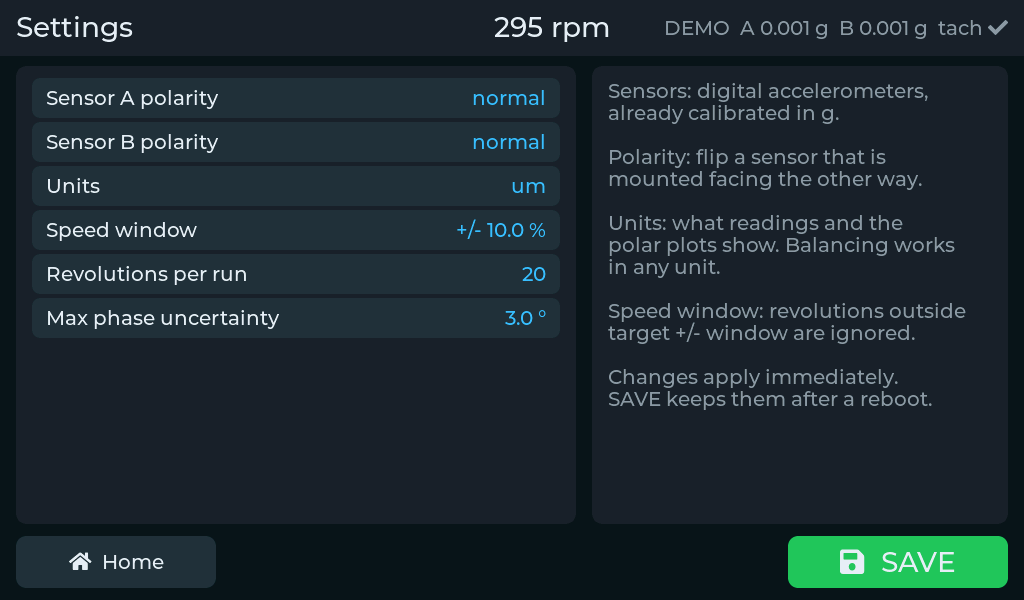
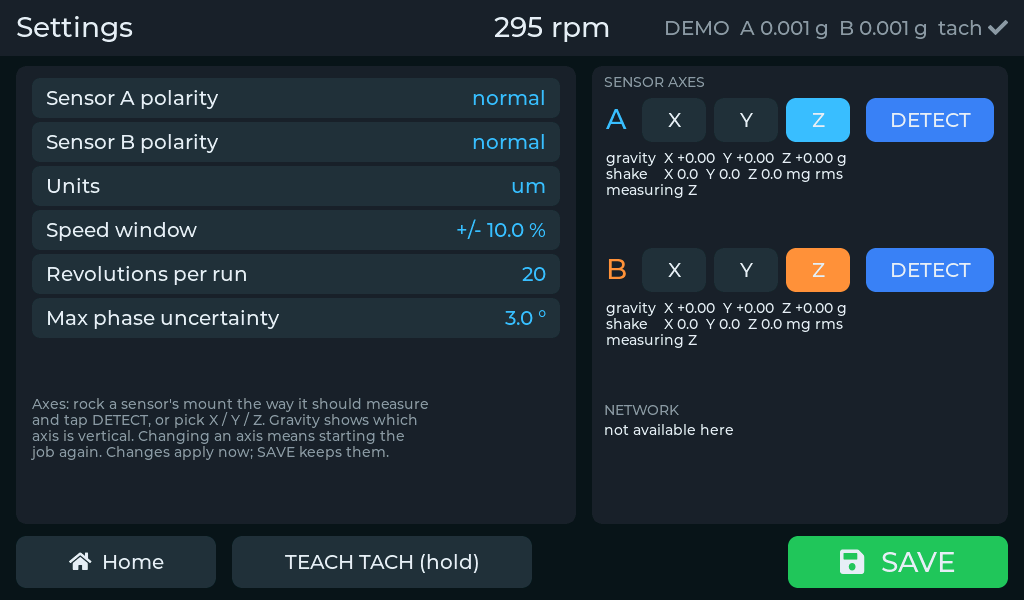
Settings: pick or auto-detect each sensor's axis; network status
- Each sensor's measured axis (X/Y/Z) can be changed on the Settings
  screen, starts from the YAML and is saved with SAVE (saved-state version
  bumped, so older saved settings are reset once).
- Live per-axis gravity (1 s mean) and shake (AC rms) for both sensors, so
  the vertical axis and the responding one are visible.
- DETECT: rock the sensor's mount the way it should measure for 3 s; the
  axis with clearly the most AC motion (1.5x the next) is chosen, otherwise
  it says so and leaves the choice by hand.
- Network panel: Wi-Fi SSID and signal, IP address, Home Assistant
  connected or not.

diff --git a/components/balancer/ui.cpp b/components/balancer/ui.cpp
@@ -834,16 +834,48 @@ void BalancerUi::build_settings_() {
        });
   number_row_(rows, colm, "Max phase uncertainty", "°", 1, [&st]() -> double & { return st.max_phase_unc_deg; }, 0.2, 20, apply);
 
+  lv_obj_t *help = text(left,
+                        "Axes: rock a sensor's mount the way it should measure\n"
+                        "and tap DETECT, or pick X / Y / Z. Gravity shows which\n"
+                        "axis is vertical. Changing an axis means starting the\n"
+                        "job again. Changes apply now; SAVE keeps them.",
+                        F14, kMuted, 16, 330);
+  (void) help;
+
+  // Right: which axis each sensor measures, and the network.
   lv_obj_t *right = box(s, 592, 66, 416, 458);
-  lv_obj_t *t = text(right,
-                     "Sensors: digital accelerometers,\nalready calibrated in g.\n\n"
-                     "Polarity: flip a sensor that is\nmounted facing the other way.\n\n"
-                     "Units: what readings and the\npolar plots show. Balancing works\nin any unit.\n\n"
-                     "Speed window: revolutions outside\ntarget +/- window are ignored.\n\n"
-                     "TEACH TACH: hold it like the teach\nkey on the LX-101 tach sensor.\n\n"
-                     "Changes apply immediately.\nSAVE keeps them after a reboot.",
-                     F20, kMuted, 16, 14);
-  (void) t;
+  text(right, "SENSOR AXES", F14, kMuted, 12, 8);
+  const uint32_t chc[2] = {kChA, kChB};
+  for (int c = 0; c < 2; c++) {
+    const int y0 = 32 + c * 150;
+    text(right, c == 0 ? "A" : "B", F28, chc[c], 14, y0 + 6);
+    for (int k = 0; k < 3; k++) {
+      lv_obj_t *ab = button_(
+          right, k == 0 ? "X" : (k == 1 ? "Y" : "Z"), F20,
+          [this, c, k]() {
+            UiSettings &st = model_->settings();
+            if (st.axis[c] == k) return;
+            st.axis[c] = k;
+            model_->apply_settings(false);
+            refresh_rows_(settings_rows_);
+            toast_(fmt("Sensor %c now reads %c. Runs measured before this no longer match: start the job "
+                       "again. SAVE keeps it.",
+                       'A' + c, "XYZ"[k]));
+          },
+          col(kPanel2));
+      lv_obj_set_pos(ab, 50 + k * 72, y0);
+      lv_obj_set_size(ab, 64, 44);
+      s_axis_btn_[c][k] = ab;
+    }
+    s_detect_btn_[c] = button_(right, "DETECT", F20, [this, c]() { start_detect_(c); }, col(kAccent));
+    lv_obj_set_pos(s_detect_btn_[c], 274, y0);
+    lv_obj_set_size(s_detect_btn_[c], 128, 44);
+    s_axis_info_[c] = text(right, "", F14, kText, 14, y0 + 52);
+  }
+  text(right, "NETWORK", F14, kMuted, 12, 336);
+  s_net_ = text(right, "", F14, kText, 12, 356);
+  lv_obj_set_width(s_net_, 392);
+  lv_label_set_long_mode(s_net_, LV_LABEL_LONG_MODE_WRAP);
 
   lv_obj_t *b = button_(s, LV_SYMBOL_HOME "  Home", F20, [this]() { show(HOME); }, col(kPanel2));
   lv_obj_set_pos(b, 16, 536);
@@ -875,6 +907,72 @@ void BalancerUi::build_settings_() {
   }, col(kGreen));
   lv_obj_set_pos(b, 788, 536);
   lv_obj_set_size(b, 220, 52);
+}
+
+// Axis auto-detect: the person rocks or shakes the assembly the way this
+// sensor should measure, and the axis with by far the most AC motion over
+// the next few seconds wins. Gravity (the mean) is ignored, so the vertical
+// axis only wins if the motion really is vertical.
+static constexpr uint32_t kDetectMs = 3000;
+
+void BalancerUi::start_detect_(int ch) {
+  if (model_->live().raw_n[ch] == 0 && !model_->simulate()) {
+    toast_(fmt("Sensor %c is not giving readings.", 'A' + ch));
+    return;
+  }
+  det_ch_ = ch;
+  det_end_ms_ = lv_tick_get() + kDetectMs;
+  for (float &p : det_peak_) p = 0;
+  toast_(fmt("Rock or shake sensor %c's mount the way it should measure, for 3 seconds...", 'A' + ch));
+}
+
+void BalancerUi::update_settings_() {
+  const LiveData &lv = model_->live();
+  const UiSettings &st = model_->settings();
+  static const char kAx[] = "XYZ";
+  for (int c = 0; c < 2; c++) {
+    for (int k = 0; k < 3; k++)
+      lv_obj_set_style_bg_color(s_axis_btn_[c][k], col(st.axis[c] == k ? (c == 0 ? kChA : kChB) : kPanel2), 0);
+    const float *m = lv.axis_mean[c], *r = lv.axis_rms[c];
+    std::string state = fmt("measuring %c", kAx[st.axis[c]]);
+    if (det_ch_ == c) state = "DETECTING: keep rocking...";
+    lv_label_set_text(s_axis_info_[c], fmt("gravity  X %+.2f  Y %+.2f  Z %+.2f g\n"
+                                           "shake    X %.1f  Y %.1f  Z %.1f mg rms\n%s",
+                                           m[0], m[1], m[2], r[0] * 1000, r[1] * 1000, r[2] * 1000, state.c_str())
+                                           .c_str());
+  }
+  if (det_ch_ >= 0) {
+    const int c = det_ch_;
+    for (int k = 0; k < 3; k++) det_peak_[k] = std::max(det_peak_[k], lv.axis_rms[c][k]);
+    if (static_cast<int32_t>(lv_tick_get() - det_end_ms_) >= 0) {
+      det_ch_ = -1;
+      int best = 0;
+      for (int k = 1; k < 3; k++)
+        if (det_peak_[k] > det_peak_[best]) best = k;
+      float second = 0;
+      for (int k = 0; k < 3; k++)
+        if (k != best) second = std::max(second, det_peak_[k]);
+      if (det_peak_[best] < 0.005f) {
+        toast_(fmt("Sensor %c barely moved (%.1f mg). Rock it harder and tap DETECT again.", 'A' + c,
+                   det_peak_[best] * 1000));
+      } else if (det_peak_[best] < 1.5f * second) {
+        toast_(fmt("No clear axis for sensor %c (X %.0f, Y %.0f, Z %.0f mg). Rock it in one direction only, or "
+                   "pick X/Y/Z by hand.",
+                   'A' + c, det_peak_[0] * 1000, det_peak_[1] * 1000, det_peak_[2] * 1000));
+      } else {
+        UiSettings &sm = model_->settings();
+        const bool changed = sm.axis[c] != best;
+        sm.axis[c] = best;
+        model_->apply_settings(false);
+        toast_(fmt("Sensor %c: %c axis (%.0f mg, next %.0f mg).%s", 'A' + c, kAx[best], det_peak_[best] * 1000,
+                   second * 1000, changed ? " Start the job again; SAVE keeps it." : " Unchanged."));
+      }
+    }
+  }
+  if (s_net_ != nullptr) {
+    const std::string net = model_->network_status();
+    lv_label_set_text(s_net_, net.empty() ? "not available here" : net.c_str());
+  }
 }
 
 // ============================================================================
@@ -926,6 +1024,9 @@ void BalancerUi::update() {
       break;
     case LIVE:
       update_live_();
+      break;
+    case SETTINGS:
+      update_settings_();
       break;
     default:
       break;

diff --git a/components/balancer/balancer.cpp b/components/balancer/balancer.cpp
@@ -5,6 +5,12 @@
 #include "esphome/core/hal.h"
 #include "esphome/core/helpers.h"
 #include "esphome/core/log.h"
+#ifdef USE_WIFI
+#include "esphome/components/wifi/wifi_component.h"
+#endif
+#ifdef USE_API
+#include "esphome/components/api/api_server.h"
+#endif
 
 #ifdef USE_ESP32
 #include "driver/gpio.h"
@@ -36,6 +42,7 @@ void BalancerComponent::set_mpu_sensor(int ch, int address, int int_pin, int axi
   mpu_cfg_.address[ch] = static_cast<uint8_t>(address);
   mpu_cfg_.pin_int[ch] = int_pin;
   mpu_cfg_.axis[ch] = axis;
+  settings_.axis[ch] = axis;
   settings_.invert[ch] = invert;
   if (mpu_cfg_.sensors < ch + 1) mpu_cfg_.sensors = ch + 1;
 }
@@ -79,7 +86,10 @@ void BalancerComponent::setup() {
     if (saved_.has_machine) load_machine(saved_.machine, saved_.machine_rpm, saved_.machine_cfg);
     ESP_LOGI(TAG, "restored settings%s", saved_.has_machine ? " and saved machine" : "");
   }
-  for (int c = 0; c < 2; c++) mpu_cfg_.invert[c] = settings_.invert[c];
+  for (int c = 0; c < 2; c++) {
+    mpu_cfg_.invert[c] = settings_.invert[c];
+    if (settings_.axis[c] >= 0 && settings_.axis[c] <= 2) mpu_cfg_.axis[c] = settings_.axis[c];
+  }
   configure_measurement_();
 
 #ifdef USE_ESP32
@@ -98,8 +108,12 @@ void BalancerComponent::setup() {
 
 void BalancerComponent::on_settings_changed() {
 #ifdef USE_ESP32
-  for (int c = 0; c < 2; c++)
-    if (mpu_) mpu_->set_invert(c, settings_.invert[c]);
+  for (int c = 0; c < 2; c++) {
+    if (!mpu_) continue;
+    mpu_->set_invert(c, settings_.invert[c]);
+    mpu_->set_axis(c, settings_.axis[c]);
+    mpu_cfg_.axis[c] = settings_.axis[c];  // for the config dump
+  }
 #endif
 }
 
@@ -139,10 +153,43 @@ void BalancerComponent::update_acq_status_() {
     live_.rms_g[c] = st.rms_g[c].load();
     live_.peak_frac[c] = st.peak_frac[c].load();
     live_.read_errors[c] = st.read_errors[c].load();
+    for (int k = 0; k < 3; k++) {
+      live_.axis_mean[c][k] = st.axis_mean[c][k].load();
+      live_.axis_rms[c][k] = st.axis_rms[c][k].load();
+    }
     live_.missed[c] = st.missed[c].load();
     live_.raw_n[c] = mpu_->copy_raw(c, live_.raw[c], bal::LiveData::kRawPts);
   }
 #endif
+}
+
+std::string BalancerComponent::network_status() const {
+  std::string out;
+#ifdef USE_WIFI
+  auto *w = wifi::global_wifi_component;
+  if (w != nullptr && w->is_connected()) {
+    char ssid[wifi::SSID_BUFFER_SIZE];
+    w->wifi_ssid_to(ssid);
+    out += str_sprintf("Wi-Fi: connected to %s, %d dBm\n", ssid, (int) w->wifi_rssi());
+    std::string ips;
+    for (auto &ip : w->get_ip_addresses()) {
+      if (!ip.is_set() || !ip.is_ip4()) continue;
+      char buf[network::IP_ADDRESS_BUFFER_SIZE];
+      if (!ips.empty()) ips += ", ";
+      ips += ip.str_to(buf);
+    }
+    out += "IP: " + (ips.empty() ? std::string("none yet") : ips) + "\n";
+  } else {
+    out += "Wi-Fi: NOT connected\nIP: none\n";
+  }
+#else
+  out += "Wi-Fi: not in this firmware\n";
+#endif
+#ifdef USE_API
+  const bool ha = api::global_api_server != nullptr && api::global_api_server->is_connected();
+  out += ha ? "Home Assistant: connected" : "Home Assistant: not connected";
+#endif
+  return out;
 }
 
 bool BalancerComponent::pc_log() const {

diff --git a/components/balancer/acq_mpu.cpp b/components/balancer/acq_mpu.cpp
@@ -100,6 +100,11 @@ void MpuAcquisition::set_invert(int ch, bool invert) {
   invert_[ch].store(invert);
 }
 
+void MpuAcquisition::set_axis(int ch, int axis) {
+  if (ch < 0 || ch > 1 || axis < 0 || axis > 2) return;
+  axis_[ch].store(axis);
+}
+
 bool MpuAcquisition::new_bus_(int b, int sda, int scl, bool low_power) {
   i2c_master_bus_config_t bcfg = {};
   bcfg.sda_io_num = static_cast<gpio_num_t>(sda);
@@ -273,6 +278,7 @@ bool MpuAcquisition::start(const MpuConfig &cfg) {
     status_.rms_g[c].store(0);
     status_.peak_frac[c].store(0);
     invert_[c].store(cfg_.invert[c]);
+    axis_[c].store(cfg_.axis[c]);
   }
   for (auto &e : edge_count_) e.store(0);
   g_per_count_ = static_cast<float>(cfg_.range_g) / 32768.0f;
@@ -421,7 +427,13 @@ void MpuAcquisition::task_() {
         int16_t xyz[3];
         for (int k = 0; k < 3; k++)
           xyz[k] = static_cast<int16_t>((static_cast<uint16_t>(b[2 * k]) << 8) | b[2 * k + 1]);
-        const int16_t raw = xyz[cfg_.axis[s]];
+        const int16_t raw = xyz[axis_[s].load(std::memory_order_relaxed)];
+        // Every axis, for the axis picker on the settings screen.
+        for (int k = 0; k < 3; k++) {
+          const double v = static_cast<double>(xyz[k]) * g_per_count_;
+          ax_sum_[s][k] += v;
+          ax_sq_[s][k] += v * v;
+        }
         float g = static_cast<float>(raw) * g_per_count_;
         if (invert_[s].load(std::memory_order_relaxed)) g = -g;
         // Recent readings for the LIVE screen's raw trace.
@@ -465,6 +477,12 @@ void MpuAcquisition::task_() {
       for (int c = 0; c < 2; c++) {
         if (c < cfg_.sensors) alive = alive && (now_ms - last_reading_ms[c] < 300);
         if (stat_n_[c] > 0) {
+          for (int k = 0; k < 3; k++) {
+            const double m = ax_sum_[c][k] / stat_n_[c];
+            const double v = ax_sq_[c][k] / stat_n_[c] - m * m;
+            status_.axis_mean[c][k].store(static_cast<float>(m));
+            status_.axis_rms[c][k].store(static_cast<float>(std::sqrt(v > 0 ? v : 0)));
+          }
           // AC part only: gravity and tilt sit on every reading.
           const double mean = sum_[c] / stat_n_[c];
           const double var = sq_sum_[c] / stat_n_[c] - mean * mean;
@@ -474,6 +492,7 @@ void MpuAcquisition::task_() {
         }
         status_.peak_frac[c].store(peak_[c]);
         sum_[c] = sq_sum_[c] = 0;
+        for (int k = 0; k < 3; k++) ax_sum_[c][k] = ax_sq_[c][k] = 0;
         peak_[c] = 0;
         stat_n_[c] = 0;
       }

diff --git a/components/balancer/acq_mpu.h b/components/balancer/acq_mpu.h
@@ -37,6 +37,10 @@ struct AcqStatus {
   std::atomic<uint32_t> last_tach_ms{0};
   std::atomic<float> measured_fs{0};
   std::atomic<float> rms_g[2];
+  // Every axis of each sensor over the last second, for the axis picker:
+  // mean (mostly gravity, so it shows which axis is vertical) and AC rms.
+  std::atomic<float> axis_mean[2][3] = {};
+  std::atomic<float> axis_rms[2][3] = {};
   std::atomic<float> peak_frac[2];  // largest |sample| / full scale over the last second
   std::atomic<uint32_t> read_errors[2] = {};  // I2C reads that failed, per sensor
   std::atomic<uint32_t> missed[2] = {};       // readings overwritten before they could be read, per sensor
@@ -76,6 +80,8 @@ class MpuAcquisition {
   const AcqStatus &status() const { return status_; }
   // Only the polarity can change at runtime: the sensor already reports g.
   void set_invert(int ch, bool invert);
+  // Which sensor axis (0 X, 1 Y, 2 Z) feeds the measurement; changeable at runtime.
+  void set_axis(int ch, int axis);
   const char *chip_name(int ch) const { return chip_[ch]; }
   double filter_delay_s(int ch) const { return delay_s_[ch]; }
 
@@ -128,6 +134,8 @@ class MpuAcquisition {
   double delay_s_[2] = {0, 0};
   uint32_t delay_ticks_[2] = {0, 0};
   std::atomic<bool> invert_[2];
+  std::atomic<int> axis_[2] = {};
+  double ax_sum_[2][3] = {}, ax_sq_[2][3] = {};
   // Running stats for the status page.
   double sum_[2] = {0, 0}, sq_sum_[2] = {0, 0};
   float peak_[2] = {0, 0};

diff --git a/components/balancer/ui_model.h b/components/balancer/ui_model.h
@@ -25,6 +25,10 @@ struct LiveData {
   bool acq_ok = false;         // acquisition running
   bool aligned = false;        // timebase locked
   unsigned resyncs = 0, overflows = 0, glitches = 0, tach_pulses = 0;
+  // Every axis of each sensor over the last second (g): mean, mostly gravity,
+  // and AC rms, the shaking. For the axis picker on the settings screen.
+  float axis_mean[kChannels][3] = {};
+  float axis_rms[kChannels][3] = {};
   unsigned read_errors[kChannels] = {0, 0};  // failed I2C reads, per sensor
   unsigned missed[kChannels] = {0, 0};       // readings skipped because the task fell behind
   // The latest raw readings of each sensor's measured axis (g, oldest first),
@@ -36,6 +40,7 @@ struct LiveData {
 
 struct UiSettings {
   bool invert[kChannels] = {false, false};
+  int axis[kChannels] = {2, 2};  // sensor axis measured: 0 X, 1 Y, 2 Z (starts from the YAML)
   Quantity quantity = Quantity::VELOCITY_MM_S;
   double window = 0.03;
   int target_revs = 30;
@@ -69,6 +74,9 @@ class UiModel {
   virtual void save_machine() = 0;
   virtual bool start_trim() = 0;
   virtual std::string machine_summary() const = 0;
+
+  // One line per item: Wi-Fi, IP address, Home Assistant. Empty off-device.
+  virtual std::string network_status() const { return ""; }
 
   // Raw stream of every reading to the USB log, for a PC (tools/mpu_log.py).
   virtual bool pc_log() const { return false; }

diff --git a/components/balancer/ui.h b/components/balancer/ui.h
@@ -101,6 +101,8 @@ class BalancerUi {
   void update_measure_();
   void update_result_();
   void update_live_();
+  void update_settings_();
+  void start_detect_(int ch);
   void rebuild_plane_rows_();
 
   void on_start_();
@@ -138,6 +140,14 @@ class BalancerUi {
   lv_obj_t *l_bars_[2][kMaxOrder] = {};
   // Bottom-right panel shows either the orders or the raw readings.
   lv_obj_t *s_teach_btn_ = nullptr;  // settings: hold to teach the tach sensor
+  // settings: axis picker per sensor, and network status
+  lv_obj_t *s_axis_btn_[2][3] = {};
+  lv_obj_t *s_detect_btn_[2] = {};
+  lv_obj_t *s_axis_info_[2] = {};
+  lv_obj_t *s_net_ = nullptr;
+  int det_ch_ = -1;           // sensor being auto-detected, -1 none
+  uint32_t det_end_ms_ = 0;
+  float det_peak_[3] = {0, 0, 0};
   lv_obj_t *l_orders_box_ = nullptr, *l_raw_box_ = nullptr, *l_view_btn_ = nullptr, *l_pclog_btn_ = nullptr;
   lv_obj_t *l_raw_[2] = {}, *l_raw_info_ = nullptr;
   lv_point_precise_t l_raw_pts_[2][LiveData::kRawPts];

diff --git a/components/balancer/balancer.h b/components/balancer/balancer.h
@@ -25,7 +25,7 @@ struct SavedState {
   double machine_rpm;
   bal::JobConfig machine_cfg;
 };
-static constexpr uint32_t kStateMagic = 0xBA1A0002;
+static constexpr uint32_t kStateMagic = 0xBA1A0003;  // 3: UiSettings gained axis[]
 
 class BalancerComponent : public Component, public bal::ModelCore {
  public:
@@ -53,6 +53,7 @@ class BalancerComponent : public Component, public bal::ModelCore {
   void set_tach_teach_pin(int pin) { teach_pin_ = pin; }
 
   // --- UiModel ---
+  std::string network_status() const override;
   bool pc_log() const override;
   void set_pc_log(bool on) override;
   bool has_tach_teach() const override { return teach_pin_ >= 0; }

diff --git a/components/balancer/ui_core.cpp b/components/balancer/ui_core.cpp
@@ -54,7 +54,10 @@ void ModelCore::load_defaults() {
   // On a soft rig the displacement barely depends on speed, so a wide
   // window in displacement units is honest.
   UiSettings st;
-  for (int c = 0; c < kChannels; c++) st.invert[c] = settings_.invert[c];  // set from YAML
+  for (int c = 0; c < kChannels; c++) {  // set from YAML
+    st.invert[c] = settings_.invert[c];
+    st.axis[c] = settings_.axis[c];
+  }
   st.quantity = Quantity::DISPLACEMENT_UM;
   st.window = 0.10;
   st.target_revs = 20;
